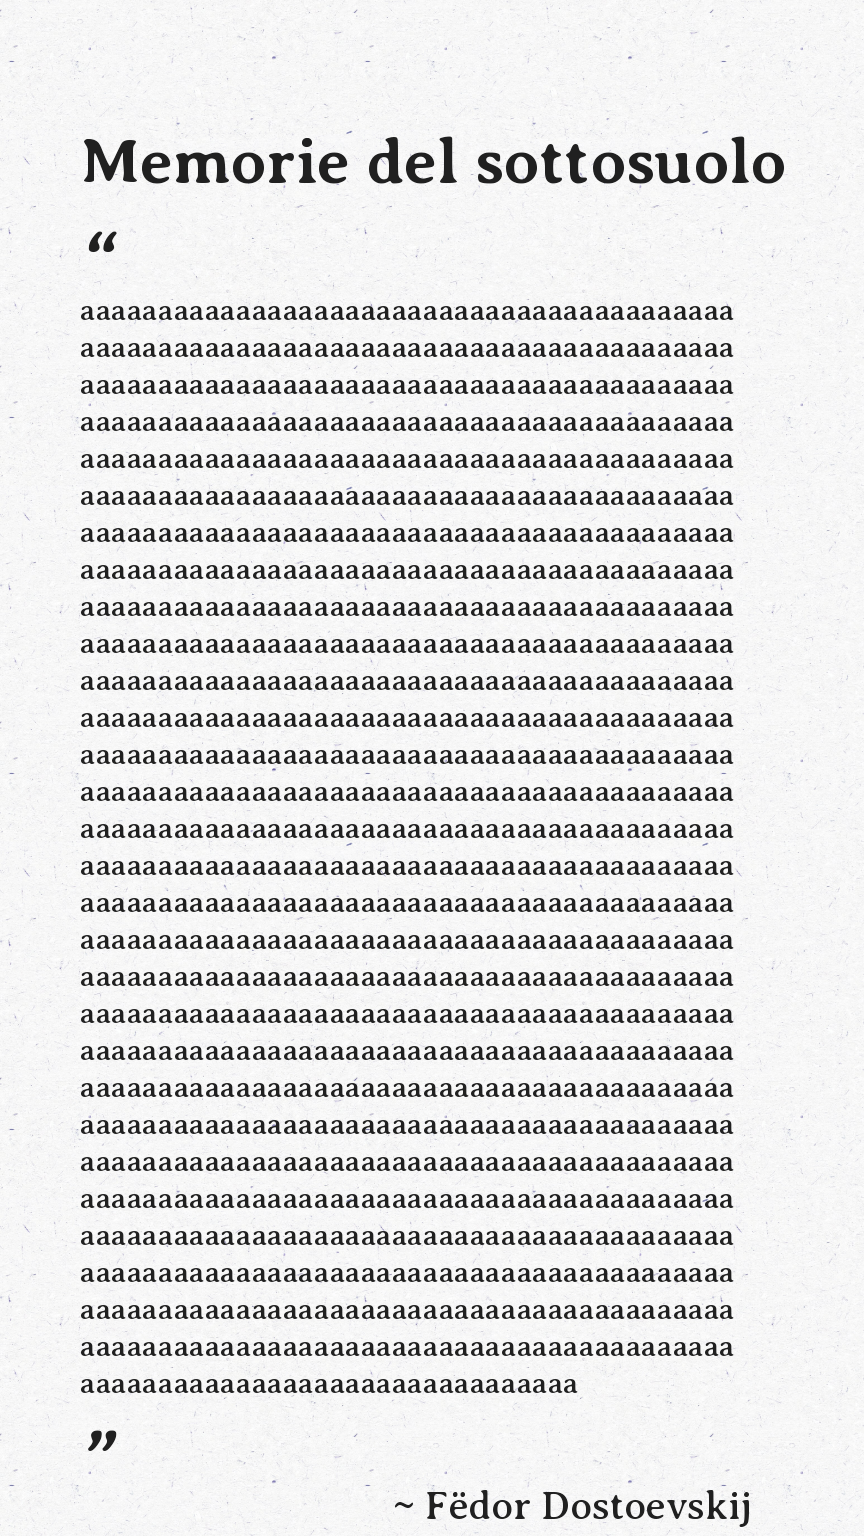
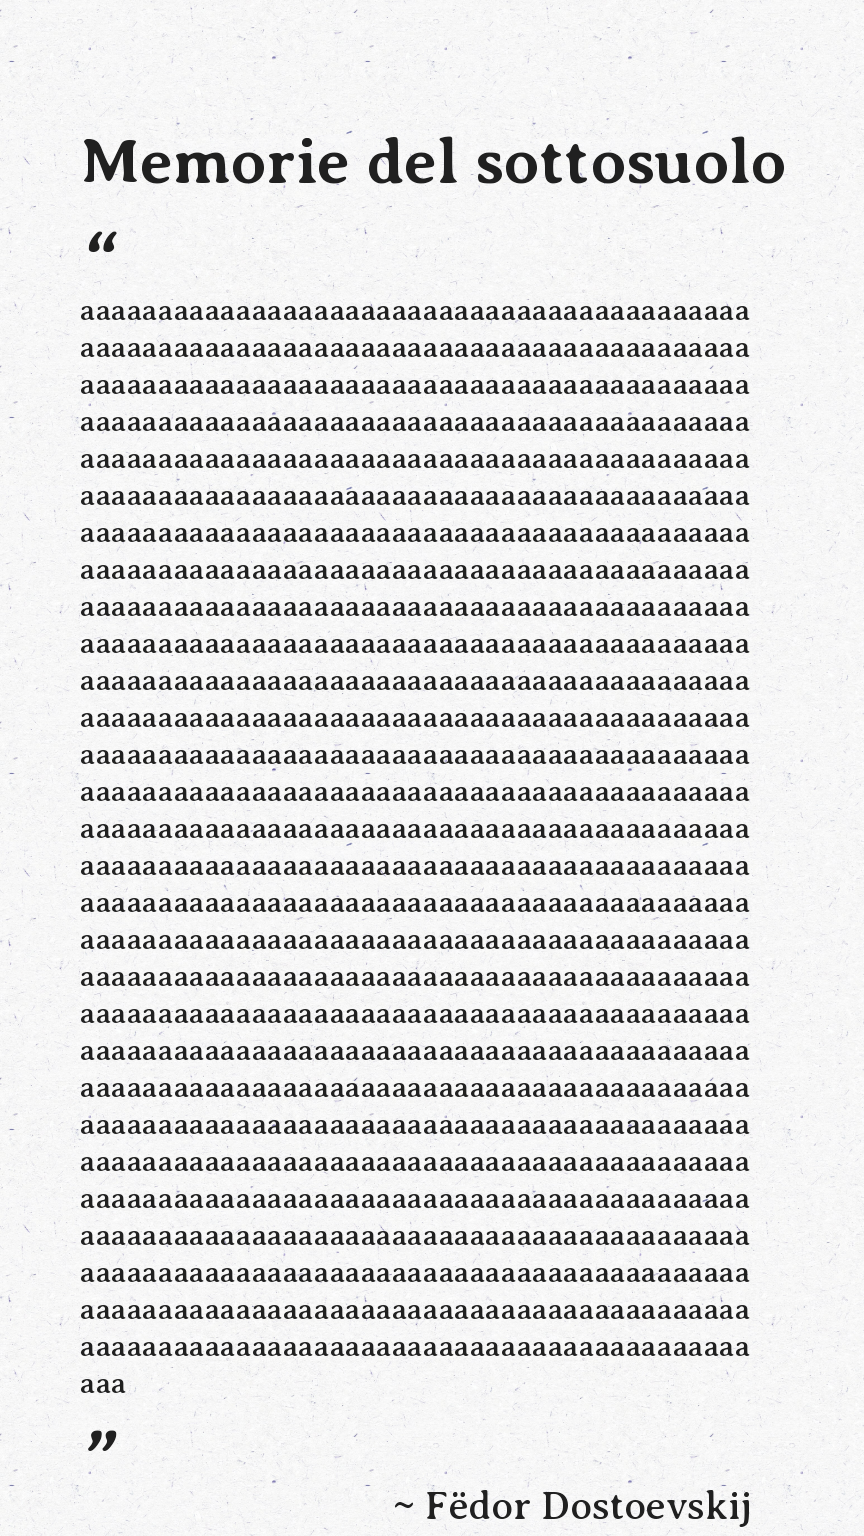
Optional author

diff --git a/share/quote.py b/share/quote.py
@@ -122,13 +122,13 @@ def shareQuote(quote: str, author: str, title: str, top_margin = 80, fixed = Fal
             fill=TEXT_COLOR, font=Ftitle
         )
     
-    width = Fauthor.getbbox('~ ' + author)[2]
-
-    draw.text(
-        (left_margin + 336*2 - width, top_margin + offset + FQuoteSignSize),
-        '~ ' + author,
-        fill=TEXT_COLOR, font=Fauthor
-    )
+    if author:
+        width = Fauthor.getbbox('~ ' + author)[2]
+        draw.text(
+            (left_margin + 336*2 - width, top_margin + offset + FQuoteSignSize),
+            '~ ' + author,
+            fill=TEXT_COLOR, font=Fauthor
+        )
 
     jpg = Image.new("RGB", original.size, (255, 255, 255))
     jpg.paste(original, mask=original.split()[3])
